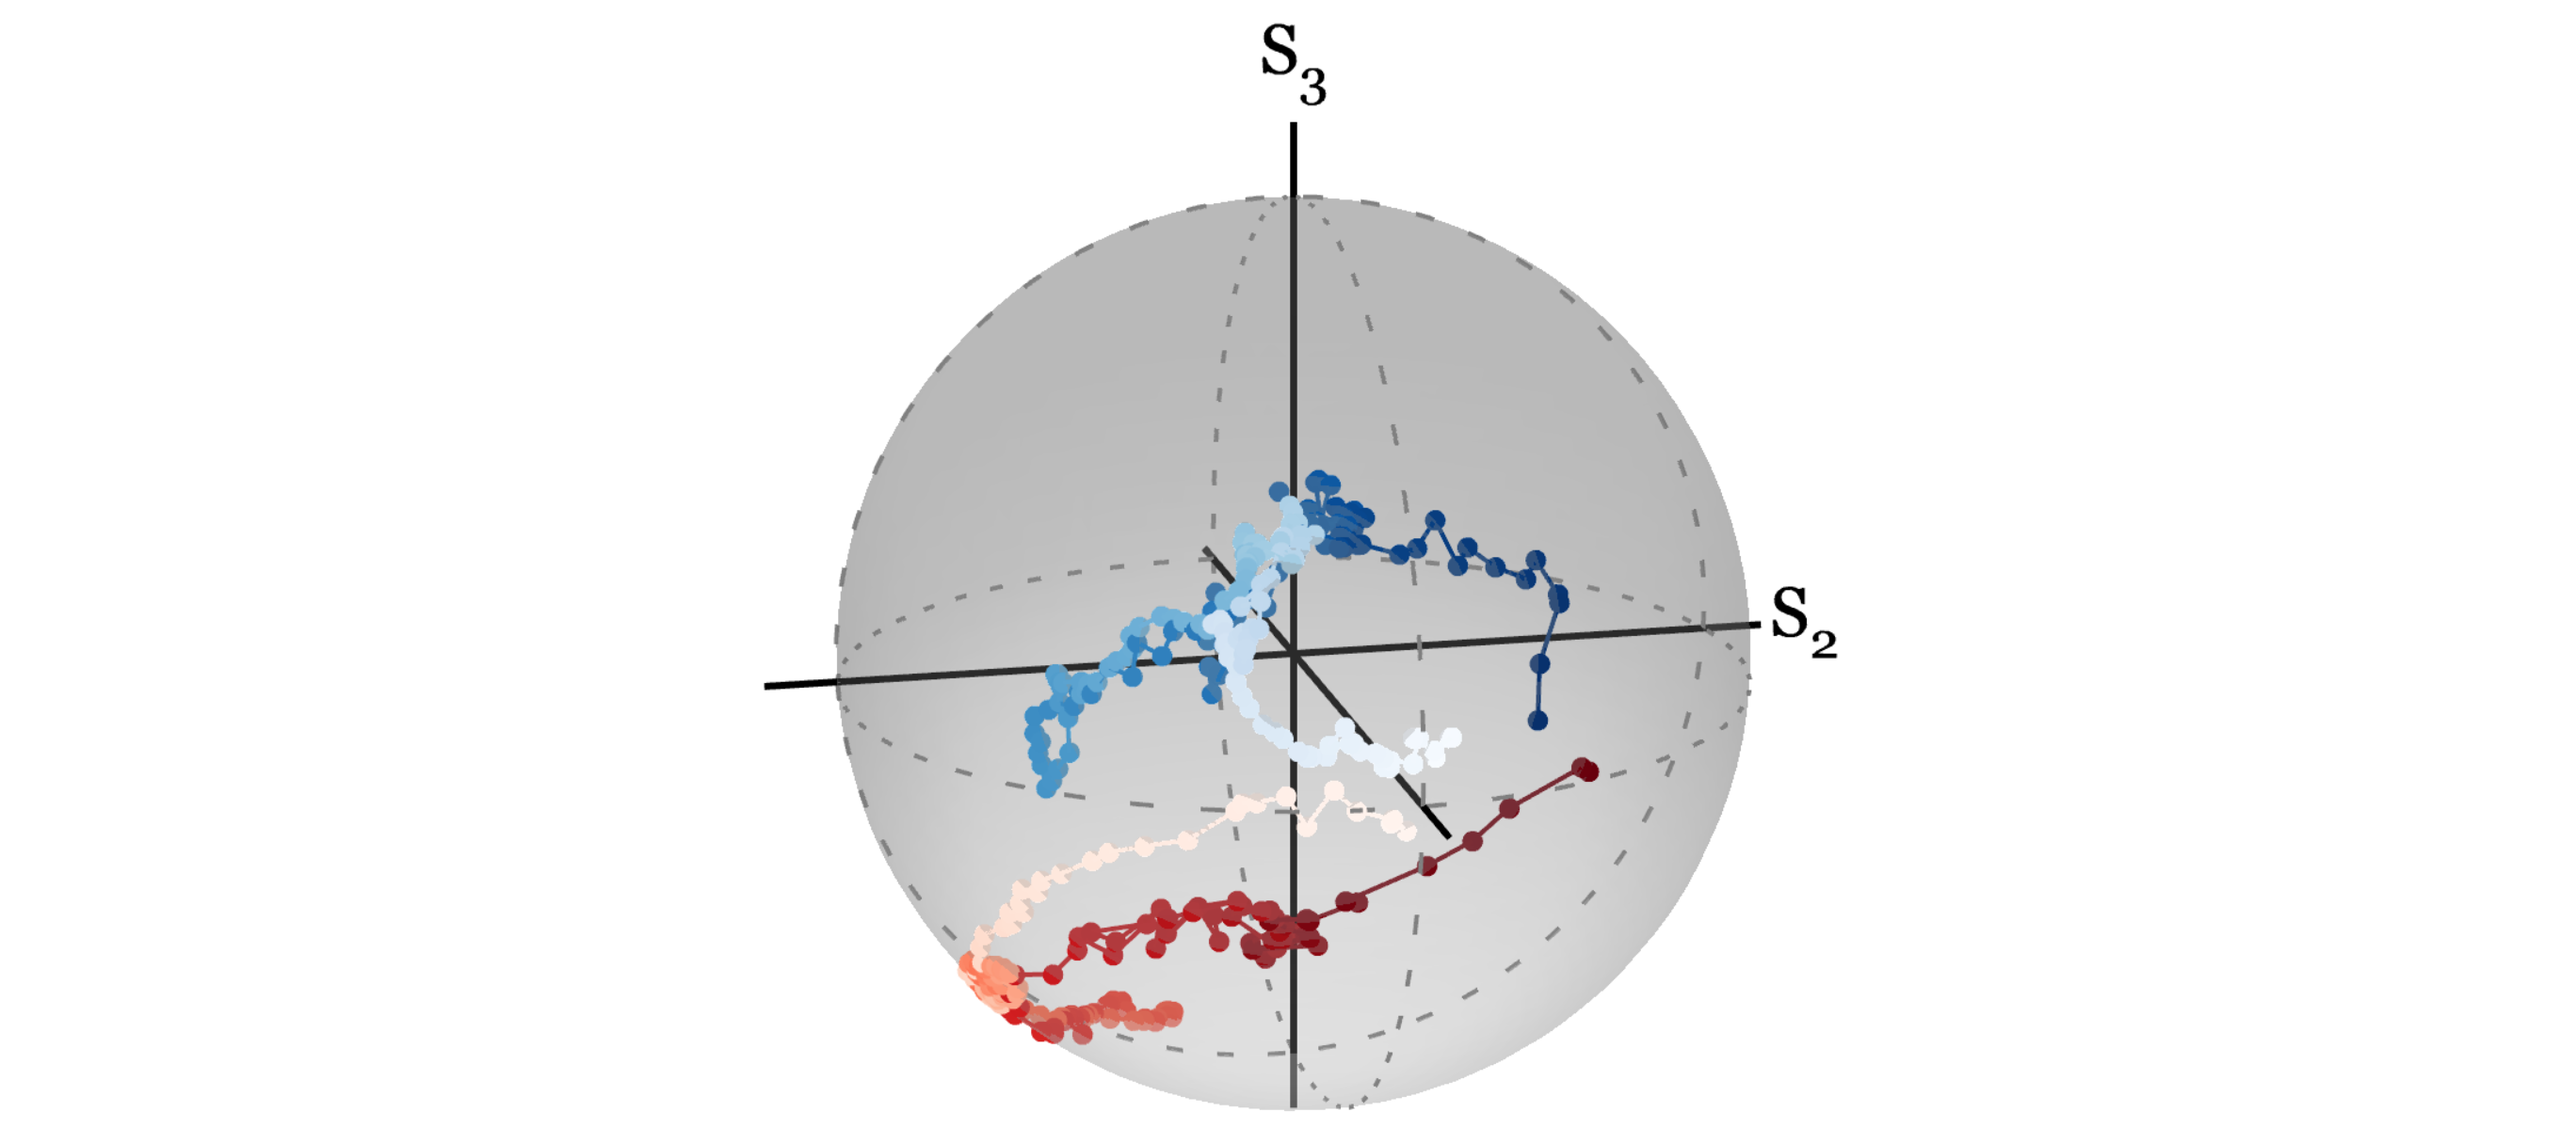
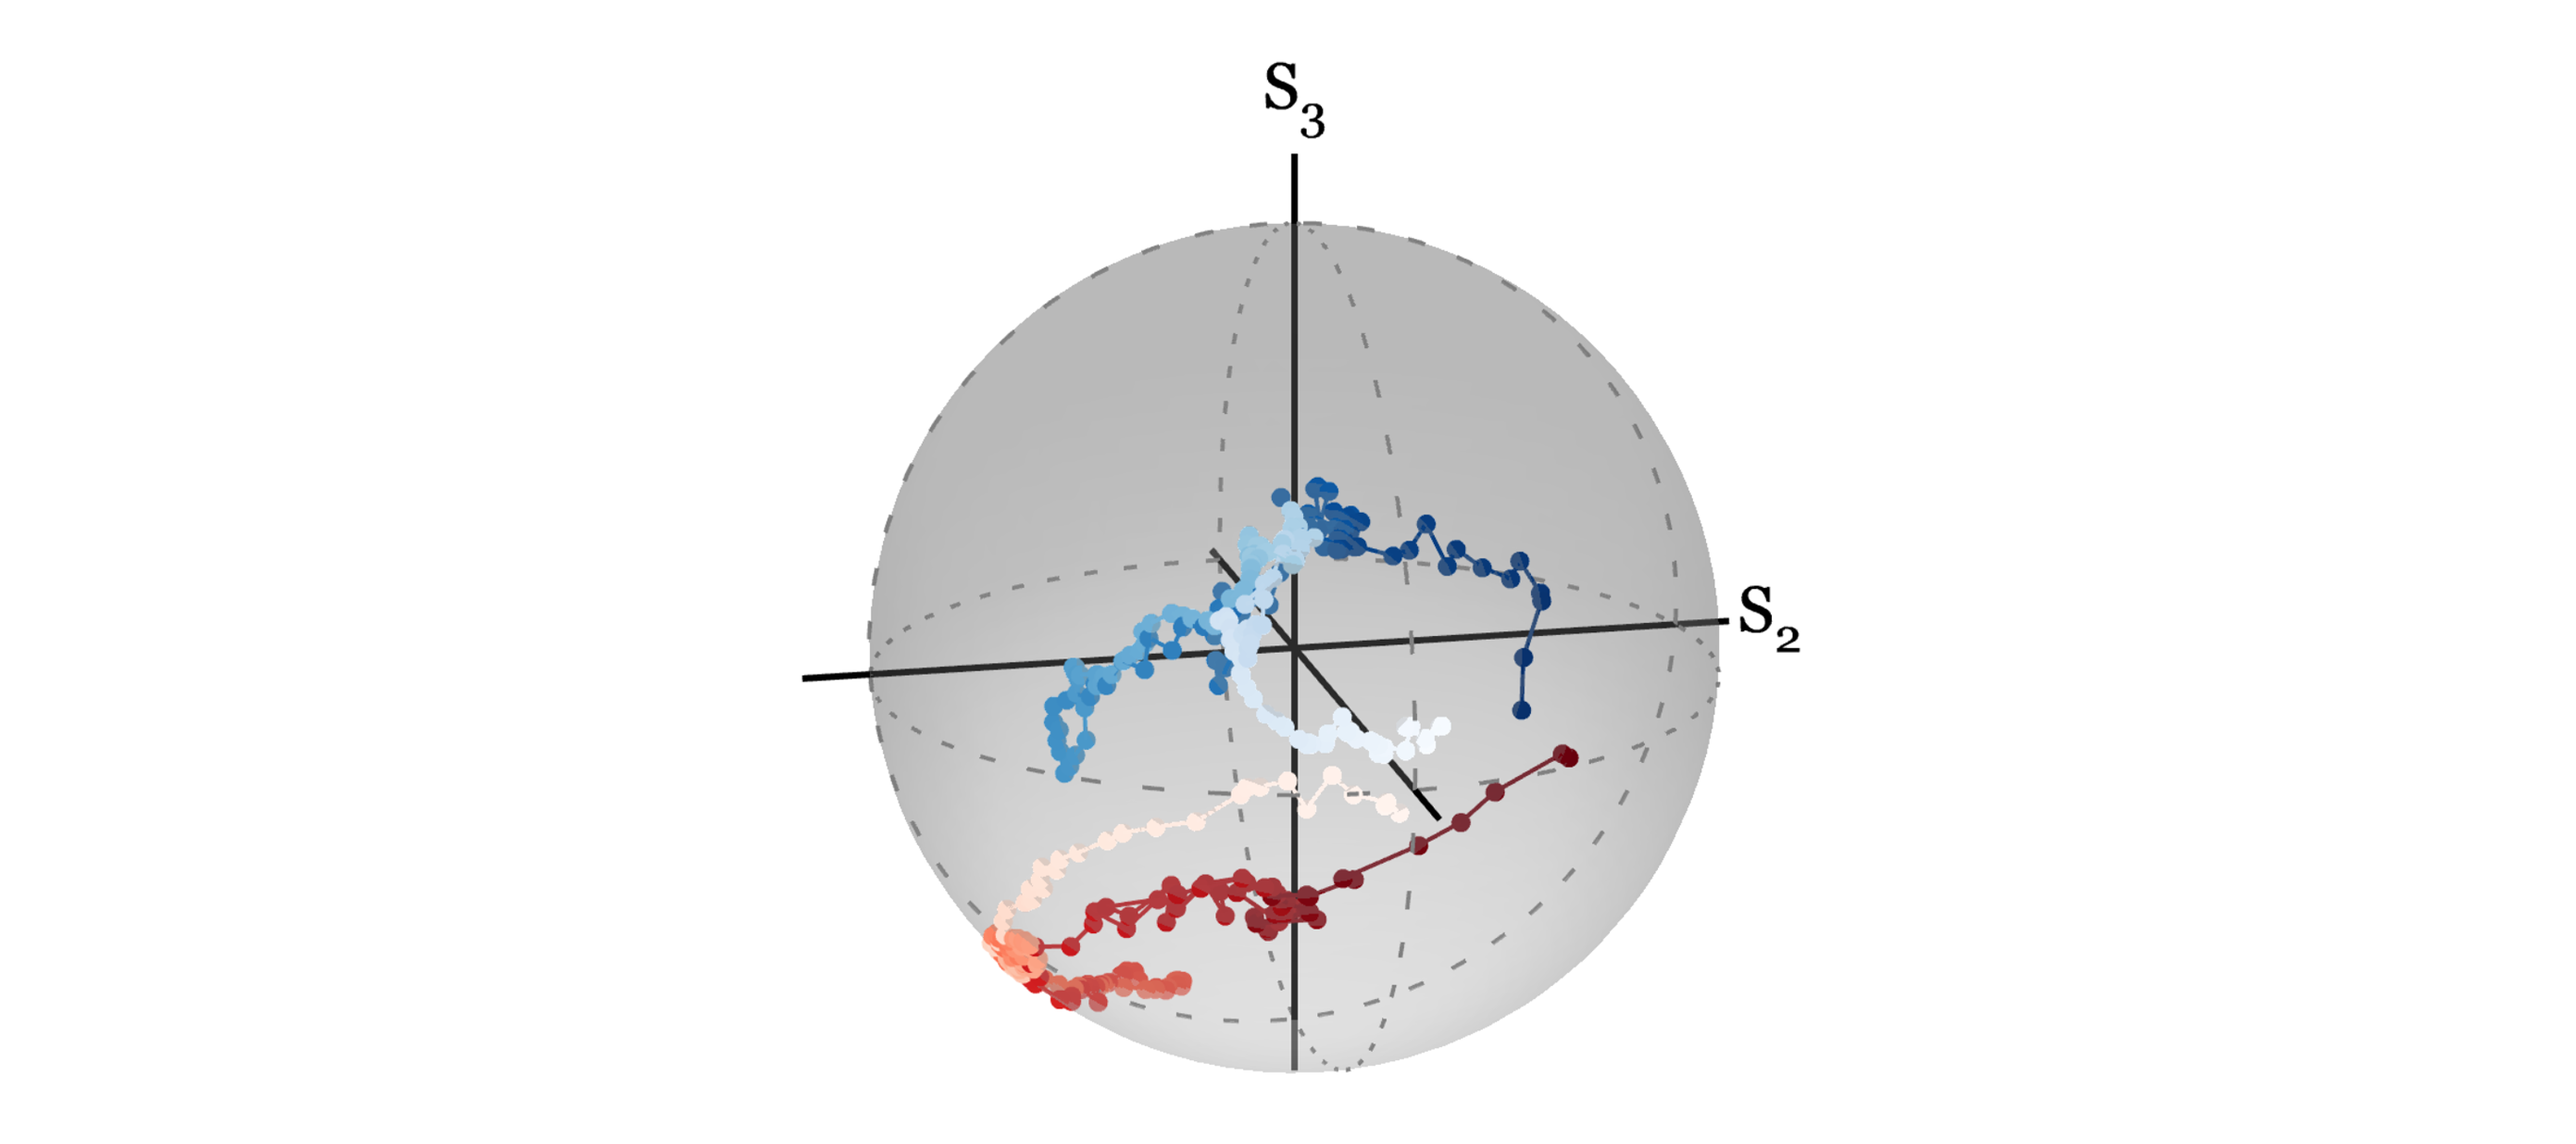
Bolding homepage text and formatting

Changed region(s): [[0.2796, 0.1562, 0.7145, 0.9688], [0.466, 0.0312, 0.5281, 0.125]]

diff --git a/index.html b/index.html
@@ -65,21 +65,21 @@
 					<section class="box special">
 						<header class="major">
 							<h2>Teacher, Researcher, Liberal Arts Grad</h2>
-							<p>As a graduate of a liberal arts college, I learned to recognize the interconnectedness
-								of everything and the value of asking big, fundamental questions. This shapes my teaching
+							<p>As a liberal arts student, I learned to recognize the interconnectedness
+								of everything and the value of asking <b>big, fundamental questions.</b> This shapes my teaching
 								and my research.</p>
-							<p>In my teaching, I use active learning and aim to build collaborative, inclusive
-								classrooms, where students get to ask and learn how physics shapes their everyday
+							<p>In my teaching, I use <b>active learning</b> and aim to build <b>collaborative, inclusive
+								classrooms,</b> where students get to ask and learn how physics shapes their everyday
 								lives.</p>
-							<p>In my education research, I'm interested in how different facets of learning—
-								metacognitive, epistemic, and affective—interact in both quantum classrooms and in
+							<p>In my education research, I'm interested in <b>how different facets of learning—
+								metacognitive, epistemic, and affective—interact</b> in both quantum classrooms and in
 								graduate education generally. In my quantum networks research, I aim to study how
-								fundamental physical mechanisms limit or benefit the deployment of real-world quantum
-								networks.</p>
-							<p>I was a first-gen/low-income student, and that experience affects how I think about the
+								fundamental physical mechanisms limit or benefit the deployment of <b>real-world quantum
+								networks.</b></p>
+							<p>I was a <b>first-gen/low-income student</b>, and that experience affects how I think about the
 								environments where physics happens (both the classroom and the lab) by making me more
 								attentive to the different backgrounds and experiences of my students and collaborators.</p>
-							<p>I'm also in it for funsies. The photo above, taken during my time as a research assistant
+							<p><b>I'm also in it for funsies</b>. The photo above, taken during my time as a research assistant
 								in undergrad, is probably the coolest photo that has ever been taken or will ever be taken
 								of me.</p>
 						</header>
@@ -143,8 +143,9 @@
 							<section class="box special">
 								<span class="image featured"><img src="images/MH-Pie-Charts.png" alt="" /></span>
 								<h3>Research: Physics Education</h3>
-								<p>I study two general questions within physics education: (1) What does it mean to
-									"learn" quantum mechanics? (2) In graduate school, with its many demands, stresses,
+								<p>I study two general questions within physics education: <br />
+									<b>(1)</b> How do students learn quantum mechanics? <br />
+									<b>(2)</b> In graduate school, with its many demands, stresses,
 									and challenges, how can we build an environment where budding researchers can find
 									happiness and success?
 								</p>

diff --git a/assets/css/main.css b/assets/css/main.css
@@ -2348,7 +2348,7 @@
 
 			.box .image.featured:first-child {
 				border-radius: 6px 6px 0 0;
-				margin-bottom: 3em;
+				margin-bottom: 2em;
 				margin-top: -3em;
 			}
 
